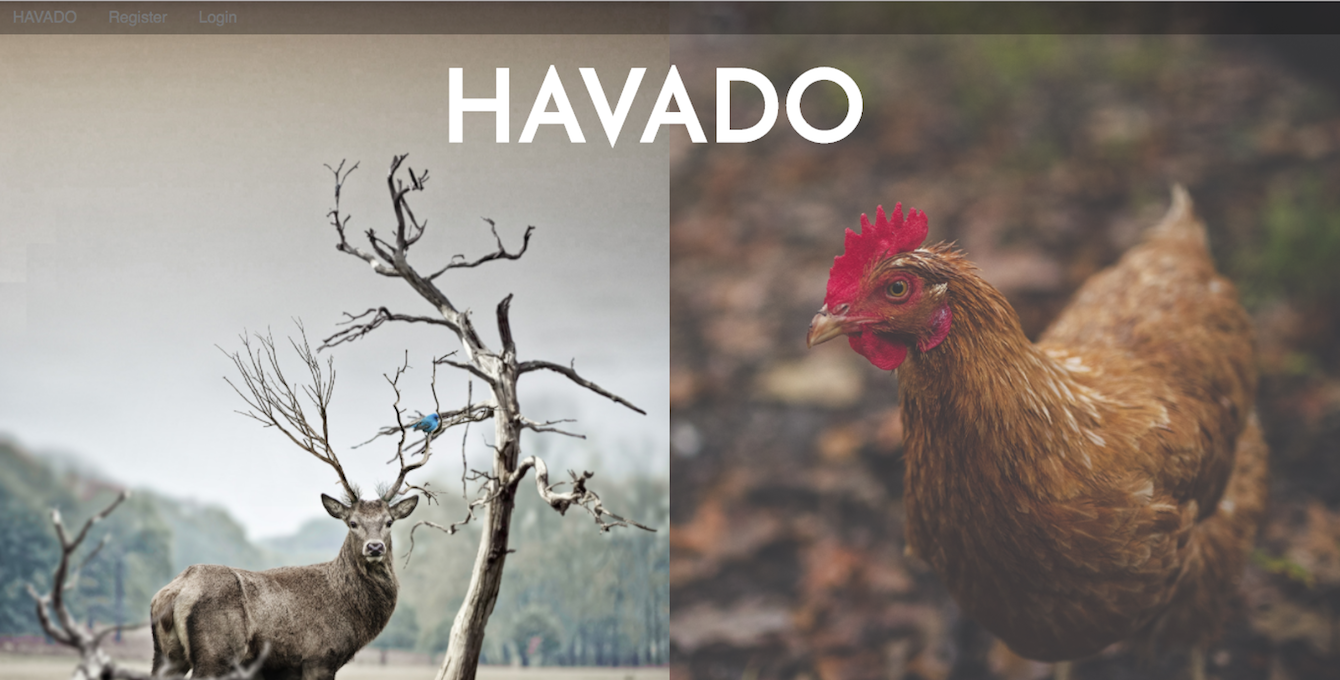
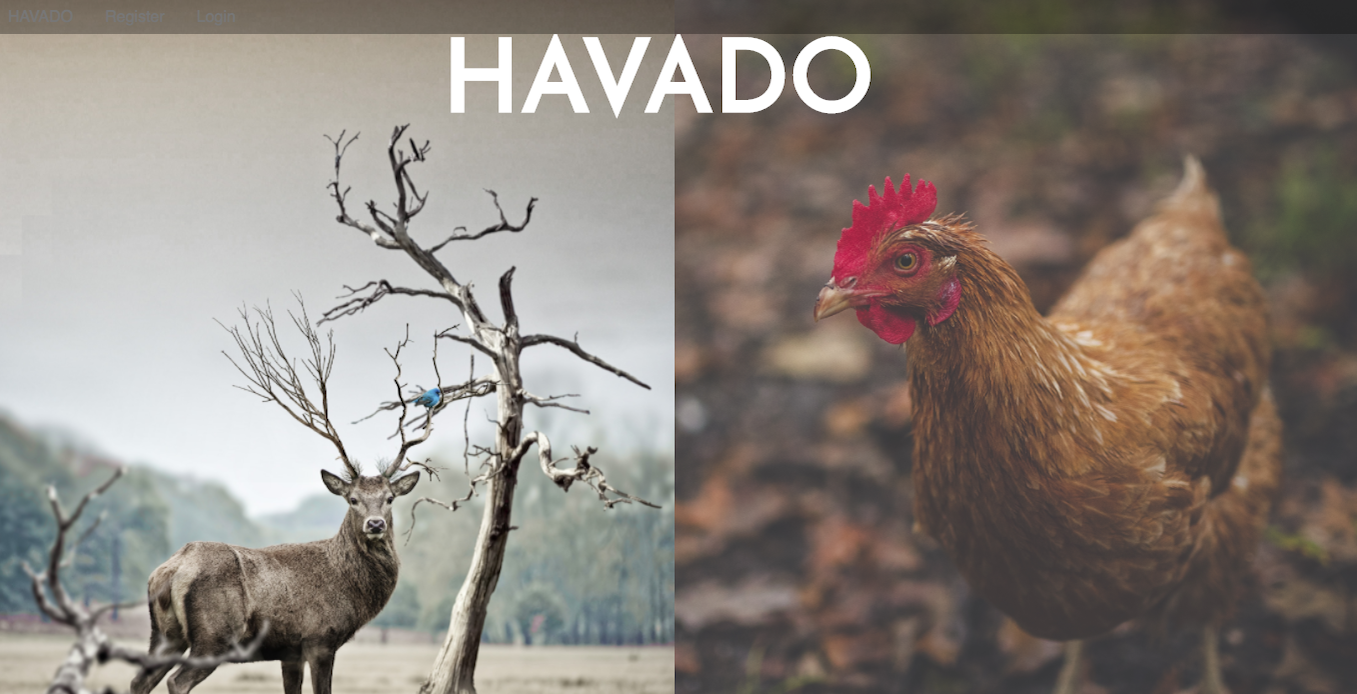
changed proj page

diff --git a/src/scss/_work.scss b/src/scss/_work.scss
@@ -2,6 +2,10 @@
   text-align: center;
   padding: 0;
   // margin-top: 3%;
+  h3{
+    margin-top: 1rem;
+    margin-bottom: 1rem;
+  }
   .row{
     padding: 0;
     // margin: 5px;
@@ -10,14 +14,11 @@
     }
     .addPhoto{
       cursor: pointer;
-      width: 100%;
-      // height: 220px;
-      // background-color: red;
+      width: 75%;
       overflow: hidden;
       margin:0 auto;
-      // margin-bottom: 10px;
       padding: 0;
-      // background-color: rgba(0,0,0,0.1);
+      box-shadow: 5px 5px 2.5px #888888;
 
     }
   }

diff --git a/src/scss/_proj.scss b/src/scss/_proj.scss
@@ -1,19 +1,23 @@
-.links{
-
-  text-align: center;
-  a{
-    color: black;
+.proj{
+  div{
+    text-align: center
+  }
+  .links{
+    text-align: center;
+    a{
+      color: black;
+    }
+  }
+  .blurb{
+    text-align: center;
+  }
+  img{
+    width: 60%;
   }
 }
-
-.blurb{
-  text-align: center;
-}
-
 .arrows{
   h1{
     margin: 0;
     cursor: pointer;
-
   }
 }

diff --git a/src/scss/_nav.scss b/src/scss/_nav.scss
@@ -1,7 +1,7 @@
 .top{
   border-width:1px 0;
   list-style:none;
-  // margin:0;
+  margin-bottom:0;
   // margin-top: 2%;
   padding:0;
   text-align:center;
@@ -13,6 +13,7 @@
       color: black;
       cursor: pointer;
       font-family: 'Nixie One', cursive;
+      margin-bottom: 0;
     }
   }
 }

diff --git a/src/scss/_footer.scss b/src/scss/_footer.scss
@@ -13,9 +13,10 @@ footer{
     color: black;
     font-family: 'Nixie One', cursive;
     padding: 0px;
-    cursor: pointer;
   }
   a{
     color: black;
+    cursor: pointer;
+
   }
 }

diff --git a/src/js/views/proj1.html b/src/js/views/proj1.html
@@ -1,4 +1,4 @@
-<div class="row">
+<div class="row proj">
   <div class="col-12">
     <img class="img-fluid" src="/images/spaceEvader.png">
   </div>

diff --git a/src/js/views/proj4.html b/src/js/views/proj4.html
@@ -1,4 +1,4 @@
-<div class="row">
+<div class="row proj">
   <div class="col-12">
     <img class="img-fluid" src="/images/fitnessFun.png">
   </div>

diff --git a/src/js/views/proj2.html b/src/js/views/proj2.html
@@ -1,4 +1,4 @@
-<div class="row">
+<div class="row proj">
   <div class="col-12">
     <img class="img-fluid" src="/images/sweetSpot.png">
   </div>

diff --git a/src/js/views/proj3.html b/src/js/views/proj3.html
@@ -1,4 +1,4 @@
-<div class="row">
+<div class="row proj">
   <div class="col-12">
     <img class="img-fluid" src="/images/havado.png">
   </div>

diff --git a/src/scss/_about.scss b/src/scss/_about.scss
@@ -1,6 +1,6 @@
 .aboutSection{
   padding: 0;
-  // margin-top: 5%;
+  margin-top: 5%;
   margin-bottom: 5%;
   .row{
     padding: 0;

diff --git a/src/scss/style.scss b/src/scss/style.scss
@@ -31,3 +31,7 @@ h4{
 img{
   width: 100%;
 }
+
+hr{
+  margin: 0;
+}
